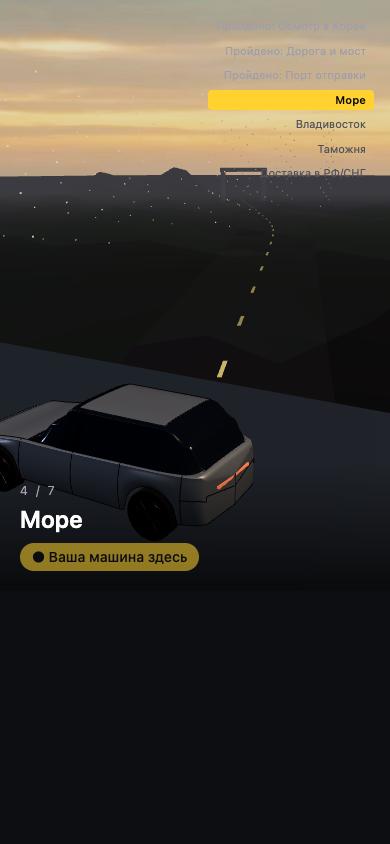
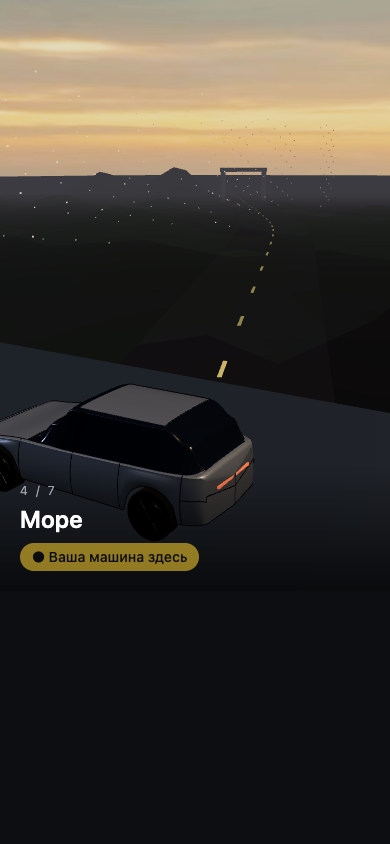
docs(journey): TZ-08 report, context/status, mobile HUD fix

Changed region(s): [[0.5231, 0.0308, 0.9538, 0.2156], [0.7385, 0.1848, 0.8, 0.2156]]

diff --git a/src/components/journey-3d/JourneyScene.tsx b/src/components/journey-3d/JourneyScene.tsx
@@ -283,7 +283,7 @@ export default function JourneyScene(props: JourneySceneProps) {
           )}
         </div>
         {currentStage && (
-          <div className="absolute right-4 top-4 flex flex-col gap-1">
+          <div className="absolute right-4 top-4 hidden flex-col gap-1 sm:flex">
             {STAGE_IDS.map((s, i) => (
               <span key={s} className={`rounded px-2 py-0.5 text-right text-[11px] ${i === currentIdx ? "bg-amber-300 font-semibold text-zinc-950" : i < currentIdx ? "text-zinc-400" : "text-zinc-600"}`}>
                 {i < currentIdx ? `${t.done}: ` : ""}{STAGE_LABELS[s][lang]}

diff --git a/docs/reports/tz-08.md b/docs/reports/tz-08.md
@@ -1,0 +1,106 @@
+# TZ-08 report — Journey scene «Путь машины»
+
+Author: Muse Code (`muse-code`). Branch: `tz-08` от `main`. Date: 2026-10-28. Не запушено — пуш за ревьюером.
+
+## Что сделано
+- `src/components/journey-3d/route.ts` — 7 фиксированных этапов, `CatmullRomCurve3`, `stageAt`/`progressOf`/`progressCenterOf` (чистые, границы и монотонность в тестах).
+- `src/components/journey-3d/scenery.ts` — кодом: дорога-ленту с instanced-разметкой, вантовый мост (пилоны + ванты `LineSegments`), порт (краны, `InstancedMesh` контейнеров), ro-ro корабль, вода `ShaderMaterial` (волны в вершинном шейдере + френель-микс), сопки (noise-heightfield), огни города (`Points`), площадка с софтбоксом, ворота таможни.
+- `src/components/journey-3d/JourneyScene.tsx` — `"use client"`: sticky-секция 700vh (моб. 500vh), скролл→progress→сглаженная камера и машина `buildCar(bodyType)` из ТЗ-06 (только импорт); на `sea` машина на палубе качающегося корабля; свет/туман по этапам ночь→рассвет; купола с текстурами `public/journey/<stage>.jpg` и кросс-фейдом; HUD этапа RU/EN, «Report ready», штамп «Cleared», маркер «Ваша машина здесь» + пульс при `currentStage`, зоны после текущего приглушены (opacity 0.32); eco (<40 FPS за 2 с → статичная вода, pixelRatio 1); фолбэк без WebGL/`prefers-reduced-motion`/`?no3d=1` — лента 7 карточек.
+- `scripts/journey/generate-backdrops.mjs` — 7 фонов `muse-image-1.0`, один прогон, ≤1600px JPEG q80, провенанс в `public/journey/prompts.json`.
+- `src/lib/agent/tools/shipping.ts` + `fixtures/shipping.json` — `getShippingStatus(reportId)` → `{stage, etaDays?, source:"demo_fixture"}`, 5 демо-машин на разных этапах; неизвестный id → `inspection` без выдуманной даты.
+- Главная `/` — hero `JourneyHero` (хэтчбек, без `currentStage`) + кнопка «Каталог осмотров» → `/cars`; `/lab/journey?stage=&body=&lang=` (dev/Preview, production 404); `compact+currentStage` экспорт для вкладки «Доставка» ТЗ-05.
+- `scripts/journey/capture.mjs` — скриншоты этапов/моб./фолбэк (`CHROMIUM_PATH` — опциональный путь к локальному Chromium).
+
+## Файлы (@agent: muse-code у всех созданных)
+```
+public/journey/{inspection,korea_road,port_busan,sea,vladivostok,customs,delivery}.jpg, prompts.json
+scripts/journey/{generate-backdrops,capture}.mjs
+src/components/journey-3d/{route,scenery,JourneyScene,JourneyHero}.tsx/ts, journey.test.ts
+src/lib/agent/tools/shipping.ts, src/lib/agent/fixtures/shipping.json (+ .agent.md)
+src/app/page.tsx, src/app/lab/journey/{page,LabJourneyClient}.tsx
+docs/reports/assets/tz08-*.png, docs/reports/tz-08.md
+```
+Файлы ТЗ-06 не менялись (только импорт `buildCar`/`BodyType`).
+
+## Сырой вывод
+
+### generate-backdrops.mjs (один прогон)
+```
+inspection.jpg saved in 21433ms
+korea_road.jpg saved in 10654ms
+port_busan.jpg saved in 26730ms
+sea.jpg saved in 8501ms
+vladivostok.jpg saved in 17666ms
+customs.jpg saved in 9936ms
+delivery.jpg saved in 10467ms
+prompts.json saved
+```
+Размер `public/journey/`: `1.1M` суммарно (≤3 МБ): 130–185 КБ на этап + prompts.json 3.4 КБ.
+
+### node --check / tsc / lint / vitest
+```
+== node --check ==
+OK
+== tsc ==
+tsc: 0 errors
+== lint ==
+> hanbridge-inspector@0.1.0 lint
+> eslint .
+== vitest ==
+ ✓ src/lib/domain/paint.test.ts (10 tests)
+stdout | journey.test.ts > triangle budget
+scenery=8258 car=25388 total=33646
+ ✓ src/components/journey-3d/journey.test.ts (5 tests)
+ ✓ src/lib/meta/sam.test.ts (5 tests)
+ ✓ src/lib/agent/tools/segment.test.ts (5 tests)
+ ✓ src/components/damage-map-3d/damageMap3d.test.ts (22 tests)
+ Test Files  5 passed (5)
+      Tests  47 passed (47)
+```
+Треугольники сцены: **33 646** (scenery 8 258 + машина 25 388 при `stations: 80`) из бюджета 250 000.
+
+### build
+```
+ ✓ Compiled successfully
+ ✓ Generating static pages (8/8)
+Route (app)                                 Size  First Load JS
+┌ ○ /                                    1.88 kB         105 kB
+├ ƒ /api/expert/analyze                    123 B         103 kB
+├ ƒ /api/expert/chat                       123 B         103 kB
+├ ○ /lab/3d                              8.41 kB         111 kB
+└ ƒ /lab/journey                         1.48 kB         104 kB
+```
+
+### capture.mjs (headless Chromium SwiftShader, `next start -p 3100`)
+```
+saved tz08-inspection / tz08-korea_road / tz08-port_busan / tz08-sea /
+      tz08-vladivostok / tz08-customs / tz08-delivery / tz08-mobile
+fallback cards: 7
+saved tz08-fallback
+page errors: []
+```
+
+## Скриншоты
+- ![tz08-inspection](assets/tz08-inspection.png)
+- ![tz08-korea_road](assets/tz08-korea_road.png)
+- ![tz08-port_busan](assets/tz08-port_busan.png)
+- ![tz08-sea](assets/tz08-sea.png)
+- ![tz08-vladivostok](assets/tz08-vladivostok.png)
+- ![tz08-customs](assets/tz08-customs.png)
+- ![tz08-delivery](assets/tz08-delivery.png)
+- ![tz08-mobile](assets/tz08-mobile.png)
+- ![tz08-fallback](assets/tz08-fallback.png)
+
+## Не работает / не проверено
+- FPS на реальном GPU не мерил (headless SwiftShader не показателен); eco-порог <40 FPS за 2 с реализован в коде.
+- Скролл-проезд на главной проверен только кадрами `/lab/journey?stage=`; полный 25-секундный скролл для видео — за Артуром на Preview.
+- Камера на этапе `inspection` смотрит вдоль маршрута: впереди виден мост следующего этапа (сцена единая, зоны не прячутся).
+- `/cars` ещё нет (ТЗ-05) — кнопка hero ведёт на будущий роут.
+
+## Коммиты (tz-08)
+```
+237d8c3 feat(journey): route, scenery, shipping fixture, Muse Image backdrops (TZ-08)
+844aac8 feat(journey): JourneyScene scroll scene, homepage hero, /lab/journey (TZ-08)
+8cb97f8 feat(journey): capture script, stage screenshots, framing fixes (TZ-08)
++ финальный коммит: мобильная правка HUD, отчёт, CONTEXT/PROJECT-STATUS
+```

diff --git a/PROJECT-STATUS.md b/PROJECT-STATUS.md
@@ -1,0 +1,19 @@
+# PROJECT-STATUS — Hanbridge Inspector
+
+<!-- @agent: muse-code · @project: hanbridge-inspector · @purpose: живой статус и точка продолжения · @created: 2026-10-28 -->
+
+## Сделано
+- ТЗ-01 (Spark-эксперт), ТЗ-02 (SAM+дефекты) — в `main`.
+- ТЗ-06 (3D-карта кузова, `buildCar`) — влита; отчёт `docs/reports/tz-06.md`.
+- ТЗ-08 (ветка `tz-08`, не запушена, ждёт ревью): сцена пути Корея→РФ/СНГ (7 этапов), 7 фонов Muse Image в `public/journey/` (1.1 МБ), `getShippingStatus`, hero на `/`, `/lab/journey`, 47/47 тестов, build зелёный. Отчёт `docs/reports/tz-08.md`.
+
+## Состояние
+`tsc` 0, `lint` 0, `vitest` 47 passed, `build` OK. Сцена: 33 646 треугольников / бюджет 250 000. FPS на реальном GPU не мерян.
+
+## Следующие шаги
+1. Ревью `tz-08` → пуш/PR (делает ревьюер).
+2. ТЗ-05: агент + `/r/:id`, подключить `<InspectionMap>` (ТЗ-06) и `<JourneyScene compact currentStage>` (ТЗ-08), роут `/cars` (кнопка hero уже ведёт туда).
+3. На Preview: полный скролл `/lab/journey` (~25 с) для видео, замер FPS на телефоне.
+
+## Передача в новую сессию
+Читать `CONTEXT.md` + этот файл + новое ТЗ из `docs/tz/`. Ветка: `tz-08` (3 коммита + финальный с отчётом). Локальный сервер в песочнице не слушает порты — нужен `--sandbox-network enabled` или эскалация; скриншоты: `CHROMIUM_PATH=~/Library/Caches/ms-playwright/chromium_headless_shell-1248/chrome-headless-shell-mac-arm64/chrome-headless-shell node scripts/journey/capture.mjs http://localhost:3100`.

diff --git a/CONTEXT.md b/CONTEXT.md
@@ -1,0 +1,18 @@
+# CONTEXT — Hanbridge Inspector
+
+<!-- @agent: muse-code · @project: hanbridge-inspector · @purpose: долгоживущий контекст проекта · @created: 2026-10-28 -->
+
+ИИ-осмотр б/у авто в Корее для СНГ/ЦА: медиа → находки с доказательствами → verifier → вердикт BUY/NEGOTIATE/WALK AWAY → публичный отчёт `/r/:id` + чат. Хакатон Meta Global AI Developer.
+
+## Стек и правила
+Next.js 15 + TS strict + Tailwind, Vercel Blob, zod, sharp. Meta API только через `src/lib/meta/*` (muse-spark-1.3, sam-3.1, transcribe, muse-image-1.0; open-weight — Baseten `meta-models/muse-spark-open-1026`). Секреты только в env. Подробности, доменные правила (толщиномер ≤150/151–220/>220, evidence обязателен, handoff <0.6) и запреты (код с нуля, без цифр растаможки) — в `AGENTS.md`.
+
+## Ключевые точки входа
+- `src/lib/schema` — Inspection/Finding/Evidence/Report; `src/lib/domain/panels.ts` — 13 панелей.
+- `src/components/damage-map-3d/buildCar.ts` — параметрическая машина (ТЗ-06), импорт запрещён копировать.
+- `src/components/journey-3d/` — сцена пути (ТЗ-08): `route.ts` (7 этапов), `scenery.ts`, `JourneyScene.tsx`, фоны `public/journey/`.
+- `src/lib/agent/tools/` — segment, defects, shipping (`getShippingStatus`, фикстура).
+- Лабы: `/lab/3d`, `/lab/journey` (production 404).
+
+## Команды
+`npx tsc --noEmit` · `npm run lint` · `npx vitest run` · `npm run build`. Каждое ТЗ: ветка `tz-0N`, отчёт `docs/reports/tz-0N.md` с сырым выводом, без пуша в main без «делай».

diff --git a/src/lib/agent/fixtures/shipping.json.agent.md b/src/lib/agent/fixtures/shipping.json.agent.md
@@ -1,0 +1,4 @@
+# @agent:   muse-code
+# @project: hanbridge-inspector
+# @purpose: Provenance for shipping.json — demo fixture stages for the 5 demo cars (TZ-08), no real logistics data
+# @created: 2026-10-28
